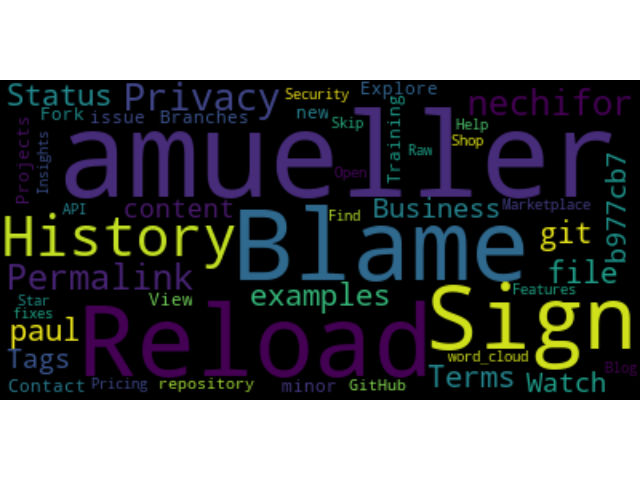
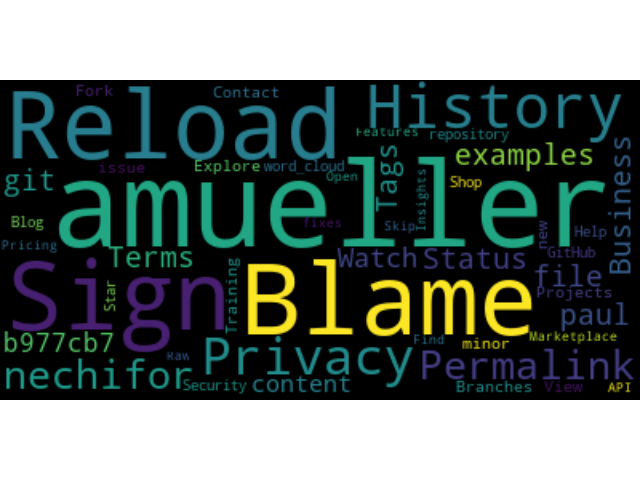
remove base64 image wordCloudImage data - replace with .png path

diff --git a/backlinkchecker.py b/backlinkchecker.py
@@ -1,135 +1,47 @@
-#mheaders =  {'user-agent': 'Mozilla/5.0 (iPhone; U; CPU iPhone OS 4_2_1 like Mac OS X; en-us) AppleWebKit/533.17.9 (KHTML, like Gecko) Version/5.0.2 Mobile/8C148 Safari/6533.18.5'}
-#dheaders={'user-agent': 'Mozilla/5.0 (X11; Linux x86_64) AppleWebKit/537.36 (KHTML, like Gecko) Chrome/41.0.2227.0 Safari/537.36'}
-
-# "Look into xpath ----- alternative to BeautifulSoup" -Sal
-
-
-import requests #used to send requests to web server and get the html we'd otherwise c in browser
-import sys
-import os
-reload(sys)  #this line is reloading the system module and isn't necessary - sys module is standard library and is included in python so we're basically reloading somethign that hasn't been changed
-sys.setdefaultencoding("utf-8") # this line is also probably not necessary
-from bs4 import BeautifulSoup as bs
-
-file=open("backlinks.csv",'w')  #opening csv file
-#
-#def getinfo(link):
-#    print("I am in getInfo")
-#    j=requests.get(link,headers=dheaders)
-#    j=bs(j.content)
-#    all_anchor_tag=j.findAll('a') #looking for all links in the webpage
-#    linksJSON = {} #creating a python dictionary
-#    for link in all_anchor_tag: #looping through all the links in the webpage
-#        try:
-#            ref=link.attrs['href']
-#            if ref.startswith('http'):
-#                file.write(ref+"\n")
-#                print(ref+"\n")
-#                print(ref)
-#        except:
-#            pass
-
-
-#file.close()
-
-
-
-
-
 import requests
 from lxml.html import fromstring
 from wordcloud import WordCloud
 import matplotlib.pyplot as plt
-import base64
+import time
+from flask import Flask
+from flask import jsonify
+from flask import request
 
 def parse(url):
     text = requests.get(url).text
     html_parsed_object  = fromstring(text)
-    #words_list = html_parsed_object.xpath('//a/text()')
-    #clean_list = []
-    #for text in words_list :
-    #    if text.strip() != '' :
-    #        clean_list.append(text.strip())
-    
     return html_parsed_object.xpath('//a/@href'),[x.strip() for x in html_parsed_object.xpath('//a/text()') if x.strip() != '']
 
 
 def gen_cloud(text):
-    wordcloud = WordCloud().generate(text)
+    wordcloud = WordCloud().generate(text.lower())
     fig = plt.figure(frameon=False)
     ax = plt.Axes(fig, [0., 0., 1., 1.])
     ax.set_axis_off()
     fig.add_axes(ax)
     plt.imshow(wordcloud, interpolation='bilinear')
-    fig.savefig('word_cloud.png')
+    file = 'static/{}.png'.format(time.time())
+    fig.savefig(file)
+    return file
 
 
 def main(url):
     hrefs, text = parse(url)
     text        = ' '.join(text)
-    gen_cloud(text)
-    encoded = ''
-    with open('word_cloud.png','rb') as f :
-        encoded = base64.b64encode(f.read())
+    file        = '/'+gen_cloud(text)
+
     return({
            'hrefs' : hrefs,
-           'image' : encoded,
+           'image' : file,
            })
-
-
-
-
-
-
-
-
-
-
-##############
-
-from flask import Flask
-from flask import jsonify
-import csv
-
-from pprint import pprint
-import StringIO
-from flask import make_response,request
-
 
 app = Flask(__name__)
 @app.route("/", methods=["GET"])
 def index():
     link = request.args.get('url')
-#    j=requests.get(link,headers=dheaders)
-#    j=bs(j.content)
-#    all_anchor_tag=j.findAll('a')
-#    links = []
-#    for link in all_anchor_tag:
-#        try:
-#            ref=link.attrs['href']
-#
-#            if ref.startswith('http'):
-#                print(ref)
-#                links.append(ref)
-#                file.write(ref+"\n")
-#        except:
-#            pass
-#    print("json",links)
-#    JSONobj = {'urls' : links}
     JSONobj = main(link)
-    
     return jsonify(JSONobj)
 
 
 if __name__ == "__main__":
-
-    port = int(os.environ.get('PORT', 5000))
-    app.run(host='0.0.0.0', port=port)
-
-
-
-
-
-
-
-
+    app.run(host='0.0.0.0', port=5000)

diff --git a/backlinkchecker copy.py b/backlinkchecker copy.py
@@ -1,0 +1,135 @@
+#mheaders =  {'user-agent': 'Mozilla/5.0 (iPhone; U; CPU iPhone OS 4_2_1 like Mac OS X; en-us) AppleWebKit/533.17.9 (KHTML, like Gecko) Version/5.0.2 Mobile/8C148 Safari/6533.18.5'}
+#dheaders={'user-agent': 'Mozilla/5.0 (X11; Linux x86_64) AppleWebKit/537.36 (KHTML, like Gecko) Chrome/41.0.2227.0 Safari/537.36'}
+
+# "Look into xpath ----- alternative to BeautifulSoup" -Sal
+
+
+import requests #used to send requests to web server and get the html we'd otherwise c in browser
+import sys
+import os
+reload(sys)  #this line is reloading the system module and isn't necessary - sys module is standard library and is included in python so we're basically reloading somethign that hasn't been changed
+sys.setdefaultencoding("utf-8") # this line is also probably not necessary
+from bs4 import BeautifulSoup as bs
+
+file=open("backlinks.csv",'w')  #opening csv file
+#
+#def getinfo(link):
+#    print("I am in getInfo")
+#    j=requests.get(link,headers=dheaders)
+#    j=bs(j.content)
+#    all_anchor_tag=j.findAll('a') #looking for all links in the webpage
+#    linksJSON = {} #creating a python dictionary
+#    for link in all_anchor_tag: #looping through all the links in the webpage
+#        try:
+#            ref=link.attrs['href']
+#            if ref.startswith('http'):
+#                file.write(ref+"\n")
+#                print(ref+"\n")
+#                print(ref)
+#        except:
+#            pass
+
+
+#file.close()
+
+
+
+
+
+import requests
+from lxml.html import fromstring
+from wordcloud import WordCloud
+import matplotlib.pyplot as plt
+import base64
+
+def parse(url):
+    text = requests.get(url).text
+    html_parsed_object  = fromstring(text)
+    #words_list = html_parsed_object.xpath('//a/text()')
+    #clean_list = []
+    #for text in words_list :
+    #    if text.strip() != '' :
+    #        clean_list.append(text.strip())
+    
+    return html_parsed_object.xpath('//a/@href'),[x.strip() for x in html_parsed_object.xpath('//a/text()') if x.strip() != '']
+
+
+def gen_cloud(text):
+    wordcloud = WordCloud().generate(text)
+    fig = plt.figure(frameon=False)
+    ax = plt.Axes(fig, [0., 0., 1., 1.])
+    ax.set_axis_off()
+    fig.add_axes(ax)
+    plt.imshow(wordcloud, interpolation='bilinear')
+    fig.savefig('word_cloud.png')
+
+
+def main(url):
+    hrefs, text = parse(url)
+    text        = ' '.join(text)
+    gen_cloud(text)
+    encoded = ''
+    with open('word_cloud.png','rb') as f :
+        encoded = base64.b64encode(f.read())
+    return({
+           'hrefs' : hrefs,
+           'image' : encoded,
+           })
+
+
+
+
+
+
+
+
+
+
+##############
+
+from flask import Flask
+from flask import jsonify
+import csv
+
+from pprint import pprint
+import StringIO
+from flask import make_response,request
+
+
+app = Flask(__name__)
+@app.route("/", methods=["GET"])
+def index():
+    link = request.args.get('url')
+#    j=requests.get(link,headers=dheaders)
+#    j=bs(j.content)
+#    all_anchor_tag=j.findAll('a')
+#    links = []
+#    for link in all_anchor_tag:
+#        try:
+#            ref=link.attrs['href']
+#
+#            if ref.startswith('http'):
+#                print(ref)
+#                links.append(ref)
+#                file.write(ref+"\n")
+#        except:
+#            pass
+#    print("json",links)
+#    JSONobj = {'urls' : links}
+    JSONobj = main(link)
+    
+    return jsonify(JSONobj)
+
+
+if __name__ == "__main__":
+
+    port = int(os.environ.get('PORT', 5000))
+    app.run(host='0.0.0.0', port=port)
+
+
+
+
+
+
+
+
